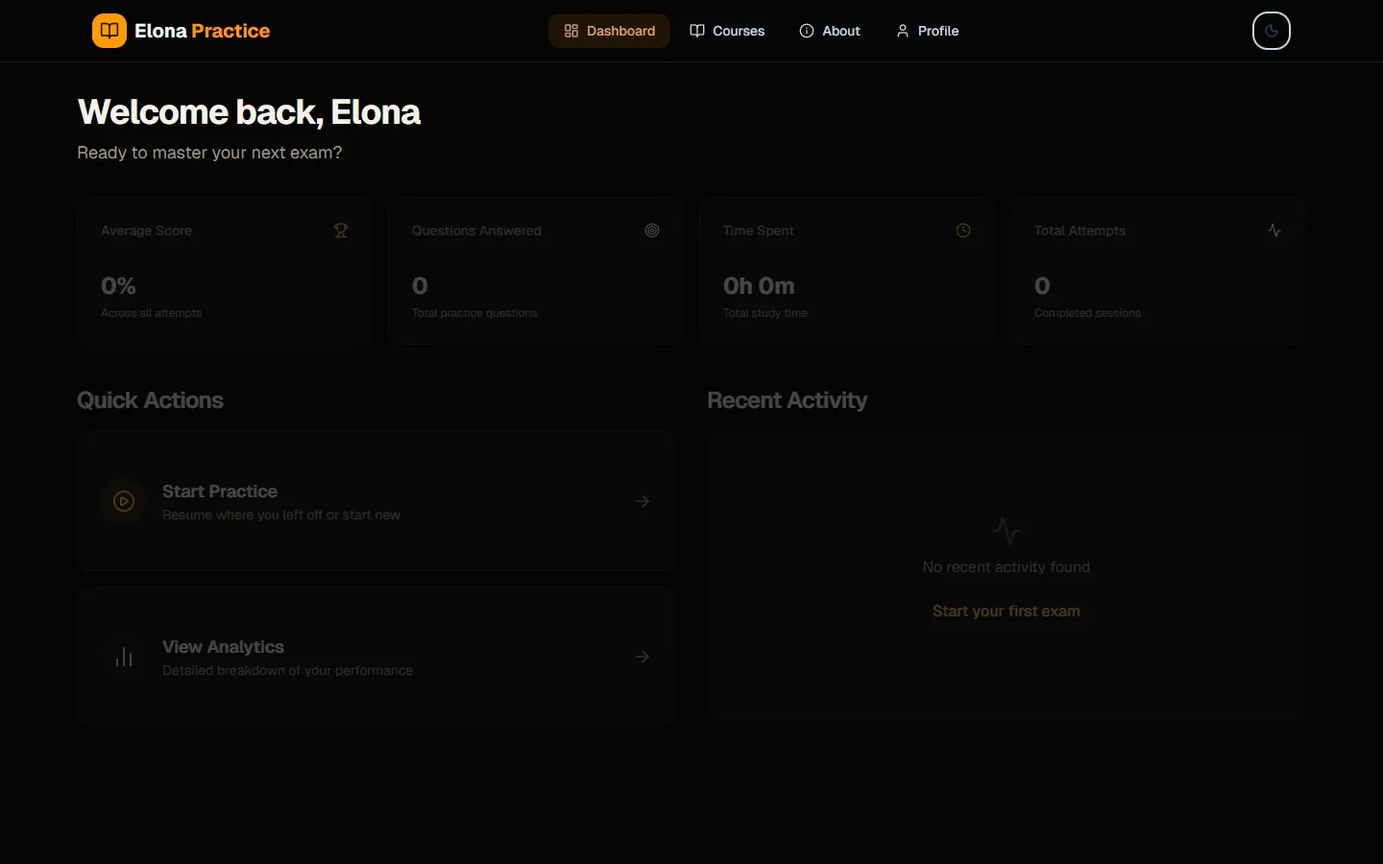
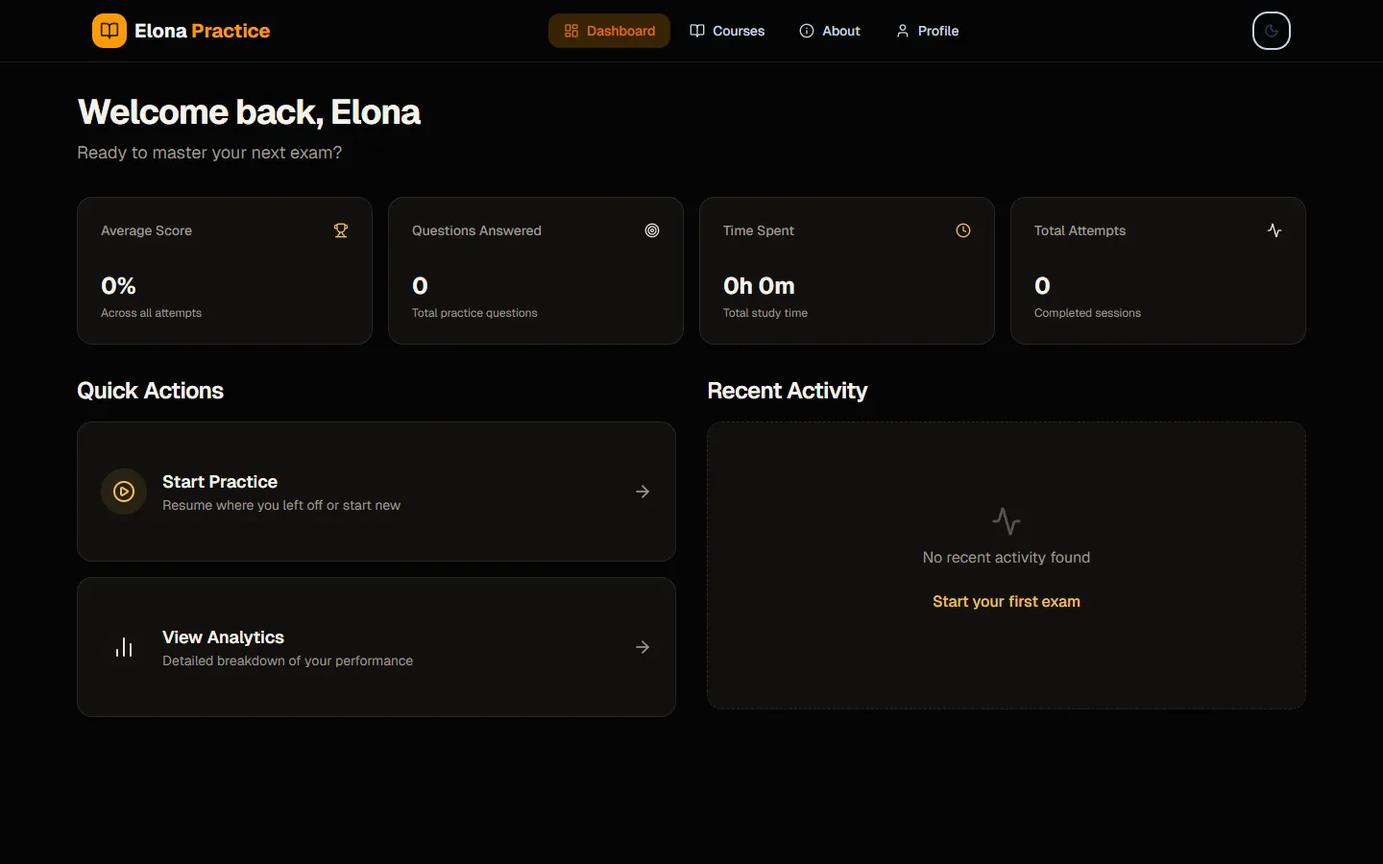
fix(data): describe each project from its own source [skip ci]
A source audit of all 36 projects found 7 inaccurate descriptions and 19 with
minor issues:
- Dream Weaver: had no Gemini.
- Ethio Trading: its market data was sample data, not live.
- Elona Practice: is a chemistry exam trainer.
- Bookbot: counts words.
- Amet AI: has no semantic search.
- Spider Solitaire: had no save or scoring.
- Samadhi: is not statically generated.
Descriptions, tech lists and categories now match the repositories and
demos, and the superlatives are gone. A regression test guards the
corrected claims.

Elona Practice is recaptured after its dashboard settles; the old capture
was dimmer than the live page (D-IMAGE-001).

diff --git a/src/data/projects.ts b/src/data/projects.ts
@@ -83,8 +83,8 @@ export const projectsData: Project[] = [
     id: 25,
     title: "Kitefew",
     description: "Camera-Tracked Hand Gesture Game",
-    longDescription: "**Kitefew** is an experimental spatial computing game that brings the 'Fruit Ninja' experience to your browser using **MediaPipe** finger tracking.\n\n• **Computer Vision**: Real-time tracking of the index finger via camera—no touch or mouse required.\n• **Spatial Interaction**: Slicing physics and interaction layers mapped to physical hand movements.\n• **Performance**: Optimized for web execution with low-latency gesture recognition.\n• **Modern Aesthetics**: Neon-accented dark UI with fluid animations and responsive gameplay.\n\nA showcase of interactive computer vision and web-based gaming technology.",
-    tech: "JAVASCRIPT, MEDIAPIPE, VITE, VANILLA CSS",
+    longDescription: "**Kitefew** brings the fruit-slicing game to the browser, played with a finger in front of the camera.\n\n• **Computer vision**: MediaPipe tracks the index finger from the webcam; no touch or mouse needed.\n• **Spatial interaction**: Slices, bombs and hearts respond to the tracked fingertip.\n• **Light tracking**: MediaPipe's lite hand model keeps recognition in the browser.\n• **Arcade UI**: A neon-on-black interface with streak multipliers and blade styles.",
+    tech: "React, TypeScript, MediaPipe, Vite",
     image: "/projects/kitefew.webp",
     imageKind: "interface",
     githubUrl: "https://github.com/LeulTew/Kitefew",
@@ -94,9 +94,9 @@ export const projectsData: Project[] = [
   {
     id: 28,
     title: "Samadhi",
-    description: "Immersive Film Analysis & Philosophy Blog",
-    longDescription: "**Samadhi** is a refined digital publication exploring the intersections of cinema, philosophy, and visual culture.\n\n• **Content Series**: Structured 4-part deep dives (Maya, Mind, Path, Sadhana) into cinematic masterpieces.\n• **Aesthetics**: High-contrast, minimalist dark theme designed for long-form reading.\n• **Interactive Layout**: Tailored grid systems and immersive imagery that mirror the complexity of the subjects.\n• **Performance**: Fast-loading, static-site generated content for a seamless reading experience.",
-    tech: "NEXT.JS, TYPESCRIPT, TAILWIND CSS, MDX",
+    description: "Four essays on the Samadhi films and the philosophy behind them",
+    longDescription: "**Samadhi** is a reading-first publication on cinema and philosophy.\n\n• **Four-part series**: Essays on Maya, Mind, Path and Sadhana, each tied to its film.\n• **Long-form layout**: A high-contrast dark theme with chapter navigation and film links.\n• **Imagery**: Stills and grids placed beside the passages they discuss.",
+    tech: "React, Vite, TypeScript, Tailwind CSS",
     image: "/projects/samadhi.webp",
     imageKind: "interface",
     githubUrl: "https://github.com/LeulTew/Samadhi",
@@ -106,9 +106,9 @@ export const projectsData: Project[] = [
   {
     id: 30,
     title: "Amet AI",
-    description: "AI-Powered Bible Discovery Platform",
-    longDescription: "**Amet AI** (Bible Learn) leverages generative AI to provide interactive, contextual insights into biblical texts.\n\n• **Intelligent Search**: Semantically aware search queries and contextual cross-referencing.\n• **Contextual Analysis**: Real-time generation of summaries and theological context for any verse.\n• **Modern Interface**: Clean, technical aesthetic designed for deep study and accessible learning.\n• **Ethical AI**: Focused on providing reliable, textual-based references and insights.",
-    tech: "REACT, TYPESCRIPT, TAILWIND CSS, GOOGLE GEMINI",
+    description: "Daily English and Amharic Bible-study cards, curated with Gemini",
+    longDescription: "**Amet AI** (Bible Learn) turns a 365-day Ethiopian Orthodox reading plan into daily study cards.\n\n• **Daily lessons**: English and Amharic flashcards for each day's reading.\n• **Archive**: Every past lesson stays browsable.\n• **Gemini curation**: Lessons are prepared with Google Gemini, as the site states.\n• **Calm interface**: A clean, focused layout for daily study.",
+    tech: "Next.js, React, TypeScript, Tailwind CSS, Google Gemini",
     image: "/projects/bible-learn.webp",
     imageKind: "interface",
     githubUrl: "https://github.com/LeulTew/bible-learn-webapp",
@@ -139,9 +139,9 @@ export const projectsData: Project[] = [
   {
     id: 32,
     title: "Elona Practice",
-    description: "Technical Practice & Analytics Dashboard",
-    longDescription: "A specialized dashboard for tracking technical skills and practice routines.\n\n• **Metrics Tracking**: Real-time visualization of practice hours and milestone completion.\n• **Adaptive Learning**: Content paths that adapt based on user performance and goals.\n• **Modern Hub**: Centralized command center for technical growth and professional development.\n• **Data Driven**: Built-in analytics for identifying strengths and areas for improvement.",
-    tech: "REACT, TYPESCRIPT, TAILWIND CSS, SHADCN UI",
+    description: "Timed exam practice with grading and attempt analytics",
+    longDescription: "An exam-preparation app, currently set up for Chemistry of Natural Products.\n\n• **Practice and exam modes**: Untimed practice or timed exams across several question types.\n• **Grading**: Every attempt is marked and kept.\n• **Analytics**: Average score, questions answered and time spent, from recorded attempts.\n• **Dashboard**: One place to resume practice and review recent activity.",
+    tech: "Next.js, React, TypeScript, Supabase, Tailwind CSS, shadcn/ui",
     image: "/projects/elona-practice.webp",
     imageKind: "interface",
     githubUrl: "https://github.com/LeulTew/ElonaPractice",
@@ -152,7 +152,7 @@ export const projectsData: Project[] = [
     id: 34,
     title: "Lalu Graphics",
     description: "Graphic Design Mastery Handbook",
-    longDescription: "**Lalu Graphics** (Graphic Design Mastery) is the definitive handbook for mastering visual communication in 2026.\n\n• **Modern Workflows**: Covers AI-integrated design processes and Ethiopian cultural context.\n• **Strategic Branding**: Focuses on international branding standards and global career strategy.\n• **Interactive Guides**: Detailed walkthroughs for logo creation, typography, and print design.\n• **Pro Visuals**: High-resolution showcases of design principles and production-ready assets.",
+    longDescription: "**Lalu Graphics** (Graphic Design Mastery) is an interactive handbook for visual communication.\n\n• **Modern workflows**: AI-assisted design processes, set in an Ethiopian cultural context.\n• **Branding and career**: International branding standards and career strategy.\n• **Interactive guides**: Walkthroughs for logos, typography, colour and print.\n• **Live examples**: Design visualizers and Framer Motion demonstrations to try in place.",
     tech: "REACT, TYPESCRIPT, TAILWIND CSS, FRAMER MOTION",
     image: "/projects/graphic-design.webp",
     imageKind: "interface",
@@ -164,7 +164,7 @@ export const projectsData: Project[] = [
     id: 24,
     title: "AgendaFlow AI",
     description: "AI-Powered Meeting & Agenda Management",
-    longDescription: "**AgendaFlow AI** is a high-performance meeting management engine that leverages **Google Gemini** to transform raw inputs into structured agendas.\n\n• **Intelligent Scanner**: Camera-based extraction of handwritten or printed agendas with real-time AI processing.\n• **Document Intelligence**: Upload documents or provide descriptions to generate comprehensive meeting structures.\n• **Excel Integration**: Full-featured Excel-like management for topics, stakeholders, and timing.\n• **Multi-Modal AI**: Supports camera uploads, document parsing, and natural language descriptions.\n\nDesigned for maximum productivity with a sleek, glassmorphic technical interface.",
+    longDescription: "**AgendaFlow AI** uses **Google Gemini** to turn raw material into structured meeting agendas.\n\n• **Scanner**: Photograph a handwritten or printed agenda and let Gemini structure it.\n• **Documents**: Upload a PDF, or describe the meeting, to generate its outline.\n• **Spreadsheet views**: Manage topics, owners and durations, with Excel import and export.\n• **Multi-modal input**: Text, documents and camera images in one flow.",
     tech: "REACT, TYPESCRIPT, TAILWIND CSS, GOOGLE GEMINI, LUCIDE REACT",
     image: "/projects/agenda-flow.webp",
     imageKind: "interface",
@@ -175,33 +175,33 @@ export const projectsData: Project[] = [
   {
     id: 27,
     title: "EthioDriveMaster",
-    description: "Next-Gen Driving License Practice Platform",
-    longDescription: "**EthioDriveMaster** is the definitive digital guide for acing the Ethiopian driving license practical exam.\n\n• **Step-by-Step Guides**: Comprehensive practical guides created from real driving experience.\n• **Visual Learning**: Interactive walkthroughs of the Kaliti practical exam tracks and tips.\n• **Bilingual Support**: Targeted at providing local-specific knowledge in a modern web interface.\n• **Premium UI**: Sleek, high-contrast dark theme with smooth navigation and 'Kaliti Approved' resources.",
-    tech: "REACT, TYPESCRIPT, TAILWIND CSS, FRAMER MOTION",
+    description: "English and Amharic guides to the Ethiopian driving practical exam",
+    longDescription: "**EthioDriveMaster** walks learners through the Ethiopian driving-license practical exam.\n\n• **Step-by-step guides**: Practical instructions written from real driving experience.\n• **Kaliti course**: Illustrated walkthroughs of the Kaliti test tracks and their tips.\n• **Bilingual**: English and Amharic throughout.\n• **Focused UI**: A high-contrast dark theme with smooth navigation.",
+    tech: "Next.js, React, TypeScript, Tailwind CSS, Framer Motion",
     image: "/projects/ethiodrive.webp",
     imageKind: "interface",
     githubUrl: "https://github.com/LeulTew/EthioDriveMaster",
     demoUrl: "https://ethio-drive-master.vercel.app",
-    categories: ["Web Development", "Mobile Apps"]
+    categories: ["Web Development"]
   },
   {
     id: 26,
     title: "System Design Guide",
-    description: "Comprehensive Architectural Learning Platform",
-    longDescription: "A specialized platform dedicated to mastering **System Design** and high-scale engineering principles.\n\n• **Deep Dives**: Detailed guides on network topolgy, cascading failures, and distributed systems.\n• **Engineering First**: Focuses on professional engineering over simple prototyping ('Engineering is for production').\n• **Interactive content**: Structured learning paths for mastering technical constraints and system reliability.\n• **Dark Mode UI**: Minimalist, technical aesthetic designed for focused technical reading and study.",
-    tech: "NEXT.JS, TYPESCRIPT, TAILWIND CSS, MDX",
+    description: "An interactive guide to system-design trade-offs",
+    longDescription: "A reading-first guide to **system design**.\n\n• **Core topics**: Networking, load balancing, cascading failures and distributed-system trade-offs.\n• **Engineering first**: Built on the idea that prototypes are vibe-coded, production is engineered.\n• **Diagrams**: Topic navigation with diagrams beside the explanations.\n• **Focused UI**: A minimal dark theme for long technical reading.",
+    tech: "React, TypeScript, Tailwind CSS",
     image: "/projects/system-design.webp",
     imageKind: "interface",
     githubUrl: "https://github.com/LeulTew/system-design-guide-blog",
     demoUrl: "https://system-design-guide-blog.vercel.app/",
-    categories: ["Web Development", "AI/DataScience"]
+    categories: ["Web Development"]
   },
   {
     id: 21,
     title: "CS Exit Practice",
-    description: "Hyper-Modern Exit Exam Interface",
-    longDescription: "A modern web application providing an interactive interface for practicing Computer Science exit exams, targeted at students preparing for university or professional assessments. Hosted on Wasmer Edge for efficient, serverless deployment.",
-    tech: "WebAssembly",
+    description: "Computer Science exit-exam practice with bookmarks, a timer and checking",
+    longDescription: "A practice room for the Computer Science exit exam.\n\n• **Exam sets**: Pick a past exam and move freely through its questions.\n• **Study tools**: Bookmarks, a quick-jump grid, answer checking and a countdown timer.\n• **Progress**: Counts of bookmarked and unanswered questions, with quick stats.\n• **Hosting**: Served from Wasmer Edge.",
+    tech: "HTML, CSS, JavaScript, Wasmer Edge",
     image: "/images/projects/exit.webp",
     imageKind: "interface",
     githubUrl: "",
@@ -212,7 +212,7 @@ export const projectsData: Project[] = [
     id: 1,
     title: "Car Rental Platform",
     description: "Full-stack app with 3D vehicle visualization",
-    longDescription: "Advanced car rental system featuring **interactive 3D vehicle models** and a robust feature set:\n\n• **Secure Authentication**: Google OAuth & JWT implementation\n• **Payments**: Integrated PayPal for secure transactions\n• **Search & Booking**: Multi-criteria filtering, availability checks, and email notifications\n• **User System**: Reviews, ratings, and profile management\n\nDemonstrates full-stack proficiency with **ASP.NET Core** and **Three.js** integration.",
+    longDescription: "A car rental system with **interactive 3D vehicle models**:\n\n• **Authentication**: ASP.NET Core Identity with Google sign-in\n• **Payments**: PayPal checkout, configured for the sandbox\n• **Search & booking**: Multi-criteria filtering, availability checks and email notifications\n• **User system**: Reviews, ratings and profile management\n\nBuilt with **ASP.NET Core MVC**, **Entity Framework Core** and **Three.js**.",
     tech: "ASP.NET Core MVC, Three.js, Entity Framework Core",
     image: "/images/projects/car-rental.webp",
     imageKind: "interface",
@@ -223,19 +223,19 @@ export const projectsData: Project[] = [
     id: 22,
     title: "ROUTEGNA",
     description: "Multi-Fleet Management System",
-    longDescription: "Comprehensive full-stack platform featuring a **Hybrid Architecture** that blends monolithic and microservices. Manages multiple organizations, drivers, vehicles, and routes in a **multi-tenant setup**.\n\n• **Core Features**: **FastAPI** microservice solving **VRP** (Vehicle Routing Problem) and a custom service for **TSP** routing with **Mapbox API fallback**.\n• **Optimization**: Real-time tracking and route optimization using clustering algorithms and **Google OR-Tools**.\n• **Operations**: Automated payroll, KPI dashboards, notifications, bulk imports, and PDF reports.\n• **Architecture**: Scalable design with **data isolation**, job queues (Redis), and robust integrations.",
+    longDescription: "A full-stack platform for managing several organizations' fleets: their drivers, vehicles and routes.\n\n• **Routing**: A **FastAPI** service solving the vehicle routing problem with **Google OR-Tools**, and Mapbox-based route calculations.\n• **Operations**: Payroll, KPI dashboards, notifications, bulk imports and PDF reports.\n• **Architecture**: React and Express over Prisma and PostgreSQL, with Redis-backed payroll jobs and Better Auth.",
     tech: "REACT, TYPESCRIPT, EXPRESS.JS, PRISMA, POSTGRESQL, REDIS, FASTAPI, OR-TOOLS, BETTER AUTH",
     image: "/images/projects/routegna.webp",
     imageKind: "mockup",
     githubUrl: "https://github.com/kidusm001/multi-fleet-managment/",
-    categories: ["Mobile Apps", "AI/DataScience", "Web Development"]
+    categories: ["AI/DataScience", "Web Development"]
   },
   {
     id: 2,
     title: "Ethio Trading",
-    description: "Mobile marketplace for Ethiopian trade",
-    longDescription: "Cross-platform mobile marketplace designed to facilitate local commerce:\n\n• **Real-time Data**: Instant updates for product listings and prices\n• **User Experience**: Responsive UI with intuitive search and filtering\n• **Features**: User profiles, secure messaging, and product management\n\nHighlights expertise in **Flutter** mobile development and **Firebase** backend integration.",
-    tech: "Flutter, Dart, Firebase",
+    description: "Flutter trading-app prototype for the Ethiopian market",
+    longDescription: "A Flutter and Dart prototype of an Ethiopian trading app.\n\n• **Four screens**: Home, market, portfolio and profile, with bottom navigation.\n• **Market view**: Asset prices and daily changes, from locally generated sample data.\n• **Prototype scope**: The screens run on sample data; no backend is connected yet.",
+    tech: "Flutter, Dart, Firebase Hosting",
     image: "/images/projects/ethio-trading.webp",
     imageKind: "mockup",
     githubUrl: "https://github.com/LeulTew/EthioTrading",
@@ -299,7 +299,7 @@ export const projectsData: Project[] = [
     id: 6,
     title: "Tera Site",
     description: "Python static site generator",
-    longDescription: "Tool converting Markdown to secure, fast websites for blogs/portfolios, with templating, CLI tooling, and API integrations for easy deployability.",
+    longDescription: "A Python command-line static-site generator: it converts Markdown through an HTML template, copies static assets and writes every page to an output folder.",
     tech: "Python",
     image: "/images/projects/tera-site.webp",
     imageKind: "mockup",
@@ -309,9 +309,9 @@ export const projectsData: Project[] = [
   {
     id: 29,
     title: "Arch Guide",
-    description: "Definitive Arch Linux Installation Guide",
-    longDescription: "A comprehensive, step-by-step guide for mastering **Arch Linux** installation and advanced configuration.\n\n• **Technical Precision**: Covers kernel selection, bootloader setup, and desktop environment customization.\n• **Simplified Workflow**: Optimized command sequences for repeatable, stable system builds.\n• **Engineering Focus**: Emphasizes system reliability and deep-level hardware integration.\n• **Clean UI**: Technical documentation styled for clarity and focus.",
-    tech: "NEXT.JS, TYPESCRIPT, TAILWIND CSS, MDX",
+    description: "A step-by-step Arch Linux installation guide",
+    longDescription: "A browser guide through a working **Arch Linux** install.\n\n• **Install path**: Partitioning, base packages, system configuration and GRUB, in order.\n• **Copyable commands**: Each step's commands in blocks, with notes on what they do.\n• **Clean UI**: Technical documentation styled for clarity and focus.",
+    tech: "React, TypeScript, Tailwind CSS",
     image: "/projects/arch-guide.webp",
     imageKind: "interface",
     githubUrl: "https://github.com/LeulTew/ArchGuide",
@@ -334,7 +334,7 @@ export const projectsData: Project[] = [
     id: 7,
     title: "Luna",
     description: "Web movie application",
-    longDescription: "Site with backend for trailers, reviews, and responsive design to engage users in movie discovery.",
+    longDescription: "A PHP movie site with a database behind it: movie details, ratings, recommendations, trailers and profile pages.",
     tech: "HTML, CSS, JS, PHP",
     image: "/images/projects/luna.webp",
     imageKind: "artwork",
@@ -346,7 +346,7 @@ export const projectsData: Project[] = [
     id: 8,
     title: "Pharmacy THE HIVE",
     description: "Desktop pharmacy management system",
-    longDescription: "Mature app with database integration, transactional workflows for inventory, prescriptions, sales, user-friendly UI, and role-based access for real-world operations.",
+    longDescription: "A C# Windows Forms pharmacy system on SQL Server: items, suppliers, customer orders and accounts, with separate customer and administrator screens.",
     tech: "C#, T-SQL",
     image: "/images/projects/pharmacy.webp",
     imageKind: "mockup",
@@ -357,7 +357,7 @@ export const projectsData: Project[] = [
     id: 9,
     title: "Spider Solitaire C#",
     description: "Desktop card game implementation",
-    longDescription: "Polished Spider Solitaire with event-driven UI, save/load, scoring, and modular logic/UI separation.",
+    longDescription: "A C# Windows Forms Spider Solitaire with card images, stacked tableaux and event-driven moves.",
     tech: "C#",
     image: "/images/projects/spider-solitaire-csharp.webp",
     imageKind: "mockup",
@@ -379,7 +379,7 @@ export const projectsData: Project[] = [
     id: 11,
     title: "Asteroidz",
     description: "Space game prototype",
-    longDescription: "Python game demonstrating event loops, basic physics, and rapid prototyping in a space theme.",
+    longDescription: "A Python and Pygame space shooter: an event loop, moving asteroids, shooting, collisions, lives and power-ups.",
     tech: "Python, Pygame",
     image: "/images/projects/asteroidz.webp",
     imageKind: "mockup",
@@ -390,7 +390,7 @@ export const projectsData: Project[] = [
     id: 12,
     title: "Deep Fake Alew",
     description: "AI deepfake video detection",
-    longDescription: "Next-gen tool with modular CLI, configurable weights, and cross-platform support for accurate deepfake analysis in research/production.",
+    longDescription: "A PyTorch inference pipeline that classifies videos as real or fake with an EfficientNet model, split into configuration, model, preprocessing and a prediction CLI. Trained weights are supplied through configuration.",
     tech: "PyTorch, EfficientNet",
     image: "/images/projects/deepFakeAlew.webp",
     imageKind: "mockup",
@@ -401,7 +401,7 @@ export const projectsData: Project[] = [
     id: 13,
     title: "Fikir Fix",
     description: "AI CLI assistant",
-    longDescription: "Command-line tool for task automation, file editing, Amharic support, and developer productivity boosts via intelligent workflows.",
+    longDescription: "A Python command-line coding assistant built on Gemini: it lists directories, reads and edits files and runs Python scripts, with a dry-run mode and explicit permission before writing.",
     tech: "Python, Gemini API",
     image: "/images/projects/fikirFix.webp",
     imageKind: "mockup",
@@ -433,8 +433,8 @@ export const projectsData: Project[] = [
   {
     id: 16,
     title: "Bookbot",
-    description: "Automation script for books",
-    longDescription: "Tool managing book lists and reading workflows through scripted automation.",
+    description: "Word and character statistics for any plain-text book",
+    longDescription: "A Python command-line tool that reads a book file, counts its words and prints each character's frequency, most common first. It takes a file path and reports a missing file clearly.",
     tech: "Python",
     image: "/images/projects/Bookbot.webp",
     imageKind: "artwork",
@@ -456,7 +456,7 @@ export const projectsData: Project[] = [
     id: 18,
     title: "Solar System OpenGL",
     description: "Interactive solar system simulation",
-    longDescription: "Model with hierarchical transforms, rotations, lighting, and animations for immersive visualization.",
+    longDescription: "A C++ and OpenGL solar system with textured planets, lighting, animated orbits and rotations, camera controls and a hierarchical Earth-Moon transform.",
     tech: "C++, OpenGL",
     image: "/images/projects/SolarSystem.webp",
     imageKind: "artwork",
@@ -477,20 +477,20 @@ export const projectsData: Project[] = [
   {
     id: 35,
     title: "Dream Weaver",
-    description: "AI-Powered Dream Analytics Dashboard",
-    longDescription: "**Dream Weaver** is a sophisticated digital sanctuary for recording and analyzing the subconscious mind using **Google Gemini**.\n\n• **Dream Intelligence**: Automated interpretation and mood tagging using large language models to identify recurring motifs.\n• **Visual Insights**: Data visualization of dream patterns, emotional arcs, and longitudinal shifts in subconscious themes.\n• **Mystical UI**: Immersive, star-field background with a minimalist glassmorphic dashboard for aesthetic focus.\n• **Personalized Sanctuary**: Private, secure entry management designed for long-term psychological tracking.",
-    tech: "NEXT.JS, TYPESCRIPT, TAILWIND CSS, GOOGLE GEMINI",
+    description: "A dream journal with mood labels, search and filters",
+    longDescription: "**Dream Weaver** is a calm, star-field journal for recording dreams.\n\n• **Entries**: A title, date, description and mood for each dream.\n• **Find again**: Search by title and filter by mood.\n• **Private by default**: Entries stay in the browser's own storage.",
+    tech: "Next.js, React, TypeScript, Tailwind CSS",
     image: "/projects/dream-journal.webp",
     imageKind: "interface",
     githubUrl: "",
     demoUrl: "https://v0-dream-journal-dashboard.vercel.app",
-    categories: ["Web Development", "AI/DataScience"]
+    categories: ["Web Development"]
   },
   {
     id: 20,
     title: "Celestial Bodies Database",
     description: "Relational database design",
-    longDescription: "Schema for celestial bodies with queries, normalization, and exercises from FreeCodeCamp.",
+    longDescription: "A PostgreSQL database of galaxies, stars, planets and moons, with sample data and relational constraints, built for freeCodeCamp's relational database course.",
     tech: "SQL",
     image: "/images/projects/CelestialDB.webp",
     imageKind: "mockup",

diff --git a/src/data/projects.test.ts b/src/data/projects.test.ts
@@ -74,6 +74,30 @@ describe("projectsData", () => {
     }
   });
 
+  it("describes what each project's own source shows, without borrowed features or superlatives", () => {
+    // Round 10 audit: seven descriptions claimed features their repositories and demos do not have.
+    const byTitle = (title: string) => projectsData.find(project => project.title === title)!;
+    const copy = (title: string) => {
+      const project = byTitle(title);
+      return `${project.description} ${project.longDescription ?? ""} ${project.tech}`;
+    };
+    expect(copy("Dream Weaver")).not.toMatch(/gemini|interpret|psycholog/i);
+    expect(byTitle("Dream Weaver").categories).not.toContain("AI/DataScience");
+    expect(copy("Ethio Trading")).not.toMatch(/real-time|secure messaging|backend integration/i);
+    expect(copy("Elona Practice")).toMatch(/Chemistry of Natural Products/);
+    expect(copy("Bookbot")).toMatch(/word/i);
+    expect(copy("Bookbot")).not.toMatch(/book lists|reading workflows/i);
+    expect(copy("Amet AI")).not.toMatch(/semantic|any verse/i);
+    expect(copy("Spider Solitaire C#")).not.toMatch(/save\/load|scoring|modular/i);
+    expect(copy("Samadhi")).not.toMatch(/static-site|NEXT\.JS|MDX/i);
+    expect(copy("Car Rental Platform")).not.toMatch(/JWT/);
+    expect(copy("CS Exit Practice")).not.toMatch(/WebAssembly/);
+    for (const project of projectsData) {
+      expect(`${project.description} ${project.longDescription ?? ""}`, project.title)
+        .not.toMatch(/\b(definitive|next-gen|hyper-modern|mastering|world-class|cutting-edge)\b/i);
+    }
+  });
+
   it("adds inspection notes only to the researched projects", () => {
     expect(projectsData.filter(project => project.evidence).map(project => project.title))
       .toEqual(["Mizan", "Ignition", "ProtoChem 3D", "Amharic IR Improved", "Portfolio Leul"]);

diff --git a/src/components/sections/Projects/Projects.controls.test.tsx b/src/components/sections/Projects/Projects.controls.test.tsx
@@ -38,9 +38,9 @@ describe('responsive project content selection', () => {
     act(() => {
       screen.getByRole('tab', { name: 'Mobile Apps' }).click();
       screen.getByRole('button', { name: 'Next project' }).click();
-      screen.getByRole('button', { name: 'Next project' }).click();
     });
-    expect(current()).toBe(mobile[2].id);
+    expect(mobile.length).toBeGreaterThan(1);
+    expect(current()).toBe(mobile[1].id);
   });
 
   it('isolates the whole expanded-details screen while keeping its explicit controls immediate', () => {
